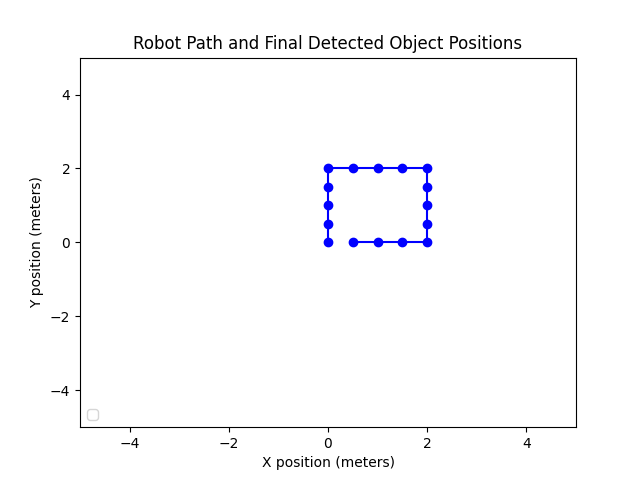
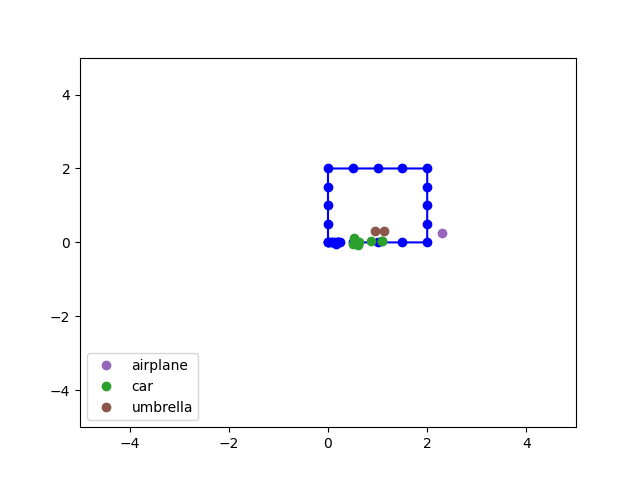
update

diff --git a/rb5_control/src/hw3_slam_control.py b/rb5_control/src/hw3_slam_control.py
@@ -124,7 +124,7 @@ class SlamControlNode(Node):
         robot_x, robot_y, theta = self.ekf_slam.state[0, 0], self.ekf_slam.state[1, 0], self.ekf_slam.state[2, 0]
         obj_x = robot_x + distance * np.cos(theta + angle)
         obj_y = robot_y + distance * np.sin(theta + angle)
-        object_name = self.objects_to_detect[obj_index]
+        object_name = self.objects_to_detect[int(obj_index)]
         self.detected_objects.append((obj_x, obj_y, object_name))
         
         # Update the robot position in the path
@@ -165,7 +165,9 @@ class SlamControlNode(Node):
         for _ in range(4):
             for _ in range(4):  # Stop every 0.5 meters
                 self.move_forward(0.5)
+                self.save_plot()
             self.turn_90_degrees()  # Turn 90 degrees
+            self.save_plot()
 
         # Final plot after completing the square, showing only final landmark positions
         self.plot_final_landmarks()
